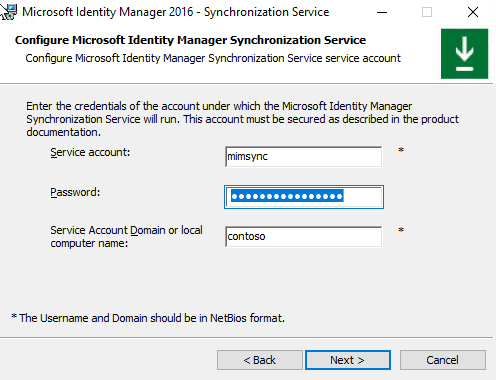
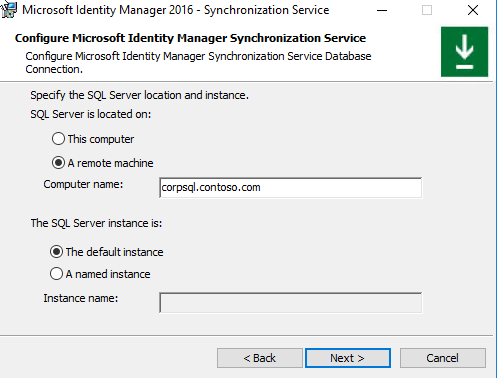
Update Sync and image

diff --git a/MIMDocs/install-mim-sync.md b/MIMDocs/install-mim-sync.md
@@ -4,10 +4,10 @@
 title: Install the Microsoft Identity Manager Sync Service | Microsoft Docs
 description: Get started with the MIM 2016 components by installing and configuring the Synchronization Service.
 keywords:
-author: billmath
+author: fimguy
 ms.author: barclayn
 manager: mbaldwin
-ms.date: 04/26/2018
+ms.date: 05/01/2018
 ms.topic: get-started-article
 ms.service: microsoft-identity-manager
 ms.technology: security
@@ -64,9 +64,9 @@ To install Microsoft Identity Manager 2016 components, first set up the installa
 
 6.  In the Sync Service database configuration screen, select:
 
-    1.  The SQL Server is located on: **A Remote machine**.
+    1.  The SQL Server is located on: **A Remote machine** called **corpsql.contoso.com**.
 
-    2.  The SQL Server instance is: **A named instance** & **corpsql.contoso.com**
+    2.  The SQL Server instance is: **The default instance**
 
     ![Database connection image](media/install-mim-sync/MIM_Install3.png)
 
